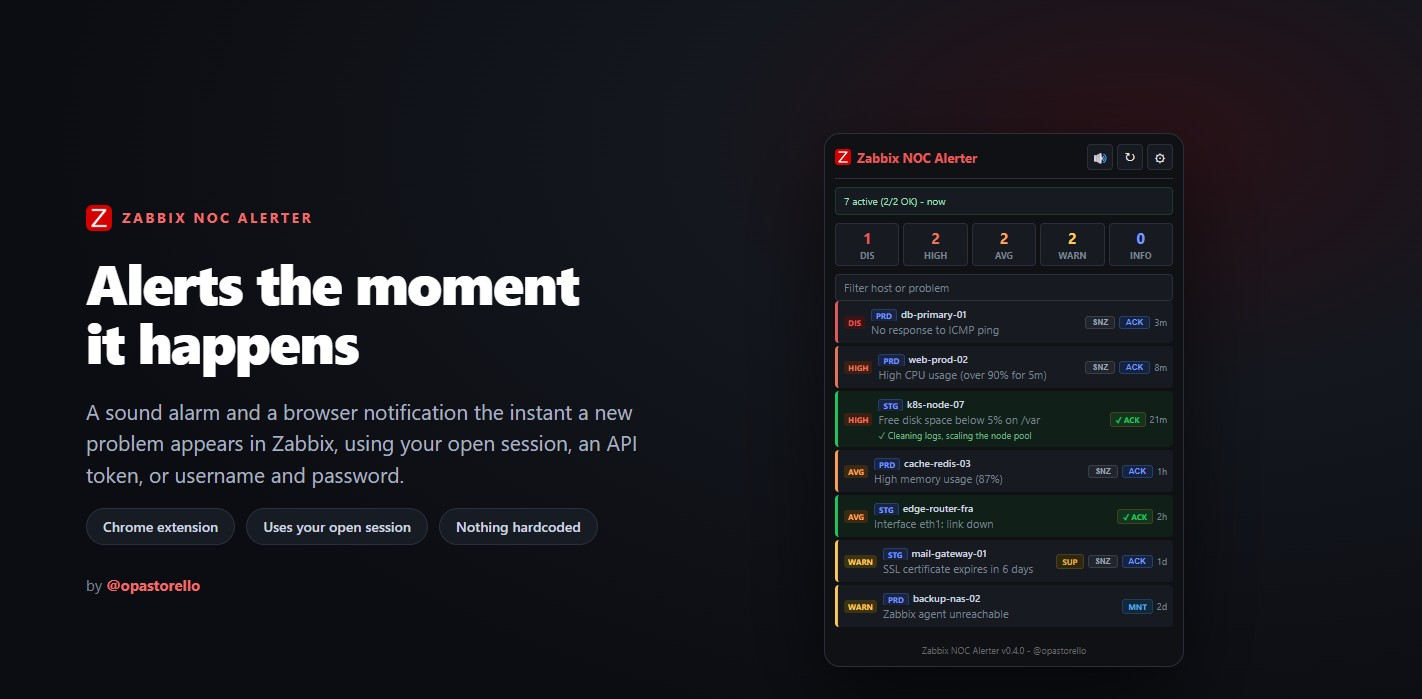
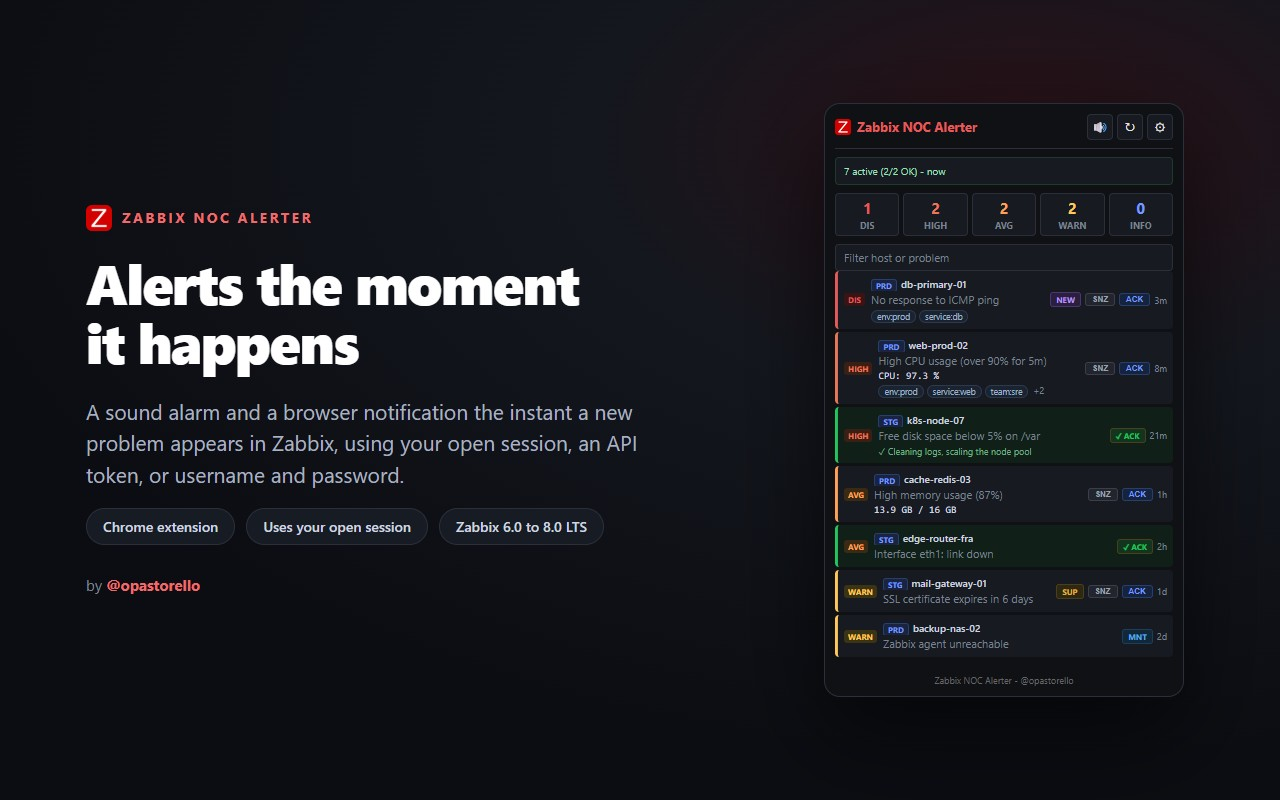
docs: screenshots da rodada v0.6 (opdata, tags, ACK/Adiar na notificacao, ponto cego, mudo com tempo)
Popup com opdata, chips de tag e o selo NOVO; notificacoes com os botoes
ACK / Adiar 15 min e o alerta de ponto cego; opcoes com filtro de tags,
ponto cego e mudo com tempo. Chip 'Zabbix 6.0 a 8.0 LTS' no slide 1.
Rodape do popup sem versao fixa (estava parado em v0.4.0).

As 12 imagens agora saem em 1280x800 exatos: o conjunto anterior tinha
1422x699, tamanho que a Chrome Web Store nao aceita.

diff --git a/screenshots/es/screenshot-1.html b/screenshots/es/screenshot-1.html
@@ -23,7 +23,7 @@
     <div class="eyebrow"><img src="../../icons/icon48.png" alt="">Zabbix NOC Alerter</div>
     <h1>Alerta en el<br>momento exacto</h1>
     <p>Una alarma sonora y notificación del navegador en el instante en que aparece un problema nuevo en Zabbix, usando la sesión abierta, token de API o usuario y contraseña.</p>
-    <div class="chips"><span class="chip">Extensión de Chrome</span><span class="chip">Usa la sesión abierta</span><span class="chip">Nada fijo en el código</span></div>
+    <div class="chips"><span class="chip">Extensión de Chrome</span><span class="chip">Usa la sesión abierta</span><span class="chip">Zabbix 6.0 a 8.0 LTS</span></div>
     <div class="by">by <b>@opastorello</b></div>
   </div>
   <div class="col-art">
@@ -42,15 +42,15 @@
       </div>
       <input class="filter-box" placeholder="Filtrar host o problema" value="">
       <div class="list">
-        <div class="row dis"><span class="badge dis">DIS</span><div class="txt"><div class="host"><span class="inst-badge">PRD</span>db-primary-01</div><div class="name">Sin respuesta al ping ICMP</div></div><div class="meta"><button class="snzbtn">SNZ</button><button class="ackbtn">ACK</button><span class="age">3m</span></div></div>
-        <div class="row high"><span class="badge high">HIGH</span><div class="txt"><div class="host"><span class="inst-badge">PRD</span>web-prod-02</div><div class="name">Uso de CPU alto (más de 90% por 5m)</div></div><div class="meta"><button class="snzbtn">SNZ</button><button class="ackbtn">ACK</button><span class="age">8m</span></div></div>
+        <div class="row dis"><span class="badge dis">DIS</span><div class="txt"><div class="host"><span class="inst-badge">PRD</span>db-primary-01</div><div class="name">Sin respuesta al ping ICMP</div><div class="tagrow"><button class="tagchip">env:prod</button><button class="tagchip">service:db</button></div></div><div class="meta"><span class="tag new">NUEVO</span><button class="snzbtn">SNZ</button><button class="ackbtn">ACK</button><span class="age">3m</span></div></div>
+        <div class="row high"><span class="badge high">HIGH</span><div class="txt"><div class="host"><span class="inst-badge">PRD</span>web-prod-02</div><div class="name">Uso de CPU alto (más de 90% por 5m)</div><div class="opdata">CPU: 97.3 %</div><div class="tagrow"><button class="tagchip">env:prod</button><button class="tagchip">service:web</button><button class="tagchip">team:sre</button><span class="tagmore">+2</span></div></div><div class="meta"><button class="snzbtn">SNZ</button><button class="ackbtn">ACK</button><span class="age">8m</span></div></div>
         <div class="row high is-ack"><span class="badge high">HIGH</span><div class="txt"><div class="host"><span class="inst-badge">HML</span>k8s-node-07</div><div class="name">Espacio libre en disco por debajo de 5% en /var</div><div class="ackinfo">&#x2713; Limpiando logs, escalando el pool de nodos</div></div><div class="meta"><span class="tag ackd">&#x2713; ACK</span><span class="age">21m</span></div></div>
-        <div class="row avg"><span class="badge avg">AVG</span><div class="txt"><div class="host"><span class="inst-badge">PRD</span>cache-redis-03</div><div class="name">Uso de memoria alto (87%)</div></div><div class="meta"><button class="snzbtn">SNZ</button><button class="ackbtn">ACK</button><span class="age">1h</span></div></div>
+        <div class="row avg"><span class="badge avg">AVG</span><div class="txt"><div class="host"><span class="inst-badge">PRD</span>cache-redis-03</div><div class="name">Uso de memoria alto (87%)</div><div class="opdata">13.9 GB / 16 GB</div></div><div class="meta"><button class="snzbtn">SNZ</button><button class="ackbtn">ACK</button><span class="age">1h</span></div></div>
         <div class="row avg is-ack"><span class="badge avg">AVG</span><div class="txt"><div class="host"><span class="inst-badge">HML</span>edge-router-fra</div><div class="name">Interfaz eth1: enlace caído</div></div><div class="meta"><span class="tag ackd">&#x2713; ACK</span><span class="age">2h</span></div></div>
         <div class="row warn"><span class="badge warn">WARN</span><div class="txt"><div class="host"><span class="inst-badge">HML</span>mail-gateway-01</div><div class="name">Certificado SSL expira en 6 días</div></div><div class="meta"><span class="tag">SUP</span><button class="snzbtn">SNZ</button><button class="ackbtn">ACK</button><span class="age">1d</span></div></div>
         <div class="row warn"><span class="badge warn">WARN</span><div class="txt"><div class="host"><span class="inst-badge">PRD</span>backup-nas-02</div><div class="name">Agente Zabbix no disponible</div></div><div class="meta"><span class="tag mnt" title="En mantenimiento">MNT</span><span class="age">2d</span></div></div>
       </div>
-      <footer><div class="credit">Zabbix NOC Alerter v0.4.0 - @opastorello</div></footer>
+      <footer><div class="credit">Zabbix NOC Alerter - @opastorello</div></footer>
     </div></div>
   </div>
 </div>

diff --git a/screenshots/pt/screenshot-1.html b/screenshots/pt/screenshot-1.html
@@ -23,7 +23,7 @@
     <div class="eyebrow"><img src="../../icons/icon48.png" alt="">Zabbix NOC Alerter</div>
     <h1>Alerta na hora<br>do problema</h1>
     <p>Alarme sonoro e notificação do navegador no instante em que um problema novo aparece no Zabbix, usando a sessão aberta, token de API ou usuário e senha.</p>
-    <div class="chips"><span class="chip">Extensão do Chrome</span><span class="chip">Usa a sessão aberta</span><span class="chip">Nada fixo no código</span></div>
+    <div class="chips"><span class="chip">Extensão do Chrome</span><span class="chip">Usa a sessão aberta</span><span class="chip">Zabbix 6.0 a 8.0 LTS</span></div>
     <div class="by">by <b>@opastorello</b></div>
   </div>
   <div class="col-art">
@@ -42,15 +42,15 @@
       </div>
       <input class="filter-box" placeholder="Filtrar host ou problema" value="">
       <div class="list">
-        <div class="row dis"><span class="badge dis">DIS</span><div class="txt"><div class="host"><span class="inst-badge">PRD</span>db-primary-01</div><div class="name">Sem resposta ao ping ICMP</div></div><div class="meta"><button class="snzbtn">SNZ</button><button class="ackbtn">ACK</button><span class="age">3m</span></div></div>
-        <div class="row high"><span class="badge high">HIGH</span><div class="txt"><div class="host"><span class="inst-badge">PRD</span>web-prod-02</div><div class="name">Uso de CPU alto (acima de 90% por 5m)</div></div><div class="meta"><button class="snzbtn">SNZ</button><button class="ackbtn">ACK</button><span class="age">8m</span></div></div>
+        <div class="row dis"><span class="badge dis">DIS</span><div class="txt"><div class="host"><span class="inst-badge">PRD</span>db-primary-01</div><div class="name">Sem resposta ao ping ICMP</div><div class="tagrow"><button class="tagchip">env:prod</button><button class="tagchip">service:db</button></div></div><div class="meta"><span class="tag new">NOVO</span><button class="snzbtn">SNZ</button><button class="ackbtn">ACK</button><span class="age">3m</span></div></div>
+        <div class="row high"><span class="badge high">HIGH</span><div class="txt"><div class="host"><span class="inst-badge">PRD</span>web-prod-02</div><div class="name">Uso de CPU alto (acima de 90% por 5m)</div><div class="opdata">CPU: 97.3 %</div><div class="tagrow"><button class="tagchip">env:prod</button><button class="tagchip">service:web</button><button class="tagchip">team:sre</button><span class="tagmore">+2</span></div></div><div class="meta"><button class="snzbtn">SNZ</button><button class="ackbtn">ACK</button><span class="age">8m</span></div></div>
         <div class="row high is-ack"><span class="badge high">HIGH</span><div class="txt"><div class="host"><span class="inst-badge">HML</span>k8s-node-07</div><div class="name">Espaço livre em disco abaixo de 5% em /var</div><div class="ackinfo">&#x2713; Limpando logs, escalando o pool de nós</div></div><div class="meta"><span class="tag ackd">&#x2713; ACK</span><span class="age">21m</span></div></div>
-        <div class="row avg"><span class="badge avg">AVG</span><div class="txt"><div class="host"><span class="inst-badge">PRD</span>cache-redis-03</div><div class="name">Uso de memória alto (87%)</div></div><div class="meta"><button class="snzbtn">SNZ</button><button class="ackbtn">ACK</button><span class="age">1h</span></div></div>
+        <div class="row avg"><span class="badge avg">AVG</span><div class="txt"><div class="host"><span class="inst-badge">PRD</span>cache-redis-03</div><div class="name">Uso de memória alto (87%)</div><div class="opdata">13.9 GB / 16 GB</div></div><div class="meta"><button class="snzbtn">SNZ</button><button class="ackbtn">ACK</button><span class="age">1h</span></div></div>
         <div class="row avg is-ack"><span class="badge avg">AVG</span><div class="txt"><div class="host"><span class="inst-badge">HML</span>edge-router-fra</div><div class="name">Interface eth1: link caiu</div></div><div class="meta"><span class="tag ackd">&#x2713; ACK</span><span class="age">2h</span></div></div>
         <div class="row warn"><span class="badge warn">WARN</span><div class="txt"><div class="host"><span class="inst-badge">HML</span>mail-gateway-01</div><div class="name">Certificado SSL expira em 6 dias</div></div><div class="meta"><span class="tag">SUP</span><button class="snzbtn">SNZ</button><button class="ackbtn">ACK</button><span class="age">1d</span></div></div>
         <div class="row warn"><span class="badge warn">WARN</span><div class="txt"><div class="host"><span class="inst-badge">PRD</span>backup-nas-02</div><div class="name">Agente Zabbix indisponível</div></div><div class="meta"><span class="tag mnt" title="Em manutenção">MNT</span><span class="age">2d</span></div></div>
       </div>
-      <footer><div class="credit">Zabbix NOC Alerter v0.4.0 - @opastorello</div></footer>
+      <footer><div class="credit">Zabbix NOC Alerter - @opastorello</div></footer>
     </div></div>
   </div>
 </div>

diff --git a/screenshots/en/screenshot-1.html b/screenshots/en/screenshot-1.html
@@ -23,7 +23,7 @@
     <div class="eyebrow"><img src="../../icons/icon48.png" alt="">Zabbix NOC Alerter</div>
     <h1>Alerts the moment<br>it happens</h1>
     <p>A sound alarm and a browser notification the instant a new problem appears in Zabbix, using your open session, an API token, or username and password.</p>
-    <div class="chips"><span class="chip">Chrome extension</span><span class="chip">Uses your open session</span><span class="chip">Nothing hardcoded</span></div>
+    <div class="chips"><span class="chip">Chrome extension</span><span class="chip">Uses your open session</span><span class="chip">Zabbix 6.0 to 8.0 LTS</span></div>
     <div class="by">by <b>@opastorello</b></div>
   </div>
   <div class="col-art">
@@ -42,15 +42,15 @@
       </div>
       <input class="filter-box" placeholder="Filter host or problem" value="">
       <div class="list">
-        <div class="row dis"><span class="badge dis">DIS</span><div class="txt"><div class="host"><span class="inst-badge">PRD</span>db-primary-01</div><div class="name">No response to ICMP ping</div></div><div class="meta"><button class="snzbtn">SNZ</button><button class="ackbtn">ACK</button><span class="age">3m</span></div></div>
-        <div class="row high"><span class="badge high">HIGH</span><div class="txt"><div class="host"><span class="inst-badge">PRD</span>web-prod-02</div><div class="name">High CPU usage (over 90% for 5m)</div></div><div class="meta"><button class="snzbtn">SNZ</button><button class="ackbtn">ACK</button><span class="age">8m</span></div></div>
+        <div class="row dis"><span class="badge dis">DIS</span><div class="txt"><div class="host"><span class="inst-badge">PRD</span>db-primary-01</div><div class="name">No response to ICMP ping</div><div class="tagrow"><button class="tagchip">env:prod</button><button class="tagchip">service:db</button></div></div><div class="meta"><span class="tag new">NEW</span><button class="snzbtn">SNZ</button><button class="ackbtn">ACK</button><span class="age">3m</span></div></div>
+        <div class="row high"><span class="badge high">HIGH</span><div class="txt"><div class="host"><span class="inst-badge">PRD</span>web-prod-02</div><div class="name">High CPU usage (over 90% for 5m)</div><div class="opdata">CPU: 97.3 %</div><div class="tagrow"><button class="tagchip">env:prod</button><button class="tagchip">service:web</button><button class="tagchip">team:sre</button><span class="tagmore">+2</span></div></div><div class="meta"><button class="snzbtn">SNZ</button><button class="ackbtn">ACK</button><span class="age">8m</span></div></div>
         <div class="row high is-ack"><span class="badge high">HIGH</span><div class="txt"><div class="host"><span class="inst-badge">STG</span>k8s-node-07</div><div class="name">Free disk space below 5% on /var</div><div class="ackinfo">&#x2713; Cleaning logs, scaling the node pool</div></div><div class="meta"><span class="tag ackd">&#x2713; ACK</span><span class="age">21m</span></div></div>
-        <div class="row avg"><span class="badge avg">AVG</span><div class="txt"><div class="host"><span class="inst-badge">PRD</span>cache-redis-03</div><div class="name">High memory usage (87%)</div></div><div class="meta"><button class="snzbtn">SNZ</button><button class="ackbtn">ACK</button><span class="age">1h</span></div></div>
+        <div class="row avg"><span class="badge avg">AVG</span><div class="txt"><div class="host"><span class="inst-badge">PRD</span>cache-redis-03</div><div class="name">High memory usage (87%)</div><div class="opdata">13.9 GB / 16 GB</div></div><div class="meta"><button class="snzbtn">SNZ</button><button class="ackbtn">ACK</button><span class="age">1h</span></div></div>
         <div class="row avg is-ack"><span class="badge avg">AVG</span><div class="txt"><div class="host"><span class="inst-badge">STG</span>edge-router-fra</div><div class="name">Interface eth1: link down</div></div><div class="meta"><span class="tag ackd">&#x2713; ACK</span><span class="age">2h</span></div></div>
         <div class="row warn"><span class="badge warn">WARN</span><div class="txt"><div class="host"><span class="inst-badge">STG</span>mail-gateway-01</div><div class="name">SSL certificate expires in 6 days</div></div><div class="meta"><span class="tag">SUP</span><button class="snzbtn">SNZ</button><button class="ackbtn">ACK</button><span class="age">1d</span></div></div>
         <div class="row warn"><span class="badge warn">WARN</span><div class="txt"><div class="host"><span class="inst-badge">PRD</span>backup-nas-02</div><div class="name">Zabbix agent unreachable</div></div><div class="meta"><span class="tag mnt" title="In maintenance">MNT</span><span class="age">2d</span></div></div>
       </div>
-      <footer><div class="credit">Zabbix NOC Alerter v0.4.0 - @opastorello</div></footer>
+      <footer><div class="credit">Zabbix NOC Alerter - @opastorello</div></footer>
     </div></div>
   </div>
 </div>

diff --git a/screenshots/es/screenshot-3.html b/screenshots/es/screenshot-3.html
@@ -31,7 +31,7 @@
     <div class="card">
       <h3>Instancias de Zabbix</h3>
       <div class="b">
-        <div style="display:flex;align-items:center;gap:8px;background:#0f1115;border:1px solid #2a2f3a;border-radius:8px;padding:9px 11px;margin-bottom:8px;"><span style="font-size:10px;font-weight:700;color:#ef6b6b;background:#3a1414;border-radius:9px;padding:2px 7px;">#1</span><b style="font-size:13px;color:#e6e6e6;">PRD</b><span style="flex:1;font-size:11px;color:#7a8290;overflow:hidden;text-overflow:ellipsis;white-space:nowrap;">zabbix.prd.example.com</span><span style="font-size:9px;font-weight:700;color:#9cc4ff;background:#1e3a5f;border-radius:9px;padding:2px 7px;">sesión</span><span style="font-size:10px;font-weight:700;color:#22c55e;">Activa</span></div>
+        <div style="display:flex;align-items:center;gap:8px;background:#0f1115;border:1px solid #2a2f3a;border-radius:8px;padding:9px 11px;margin-bottom:8px;"><span style="font-size:10px;font-weight:700;color:#ef6b6b;background:#3a1414;border-radius:9px;padding:2px 7px;">#1</span><b style="font-size:13px;color:#e6e6e6;">PRD</b><span style="flex:1;font-size:11px;color:#7a8290;overflow:hidden;text-overflow:ellipsis;white-space:nowrap;">zabbix.prd.example.com</span><span style="font-size:9px;font-weight:700;color:#9cc4ff;background:#1e3a5f;border-radius:9px;padding:2px 7px;">sesión</span><span style="font-size:9px;font-weight:600;color:#9fb3c8;background:#1b2230;border:1px solid #2c3a50;border-radius:9px;padding:1px 7px;">env=prod</span><span style="font-size:10px;font-weight:700;color:#22c55e;">Activa</span></div>
         <div style="display:flex;align-items:center;gap:8px;background:#0f1115;border:1px solid #2a2f3a;border-radius:8px;padding:9px 11px;"><span style="font-size:10px;font-weight:700;color:#ef6b6b;background:#3a1414;border-radius:9px;padding:2px 7px;">#2</span><b style="font-size:13px;color:#e6e6e6;">HML</b><span style="flex:1;font-size:11px;color:#7a8290;overflow:hidden;text-overflow:ellipsis;white-space:nowrap;">zabbix.hml.example.com</span><span style="font-size:9px;font-weight:700;color:#9cc4ff;background:#1e3a5f;border-radius:9px;padding:2px 7px;">token</span><span style="font-size:10px;font-weight:700;color:#22c55e;">Activa</span></div>
       </div>
       <h3>Monitoreo</h3>
@@ -46,6 +46,7 @@
         <div class="tr"><span class="tg on"></span>Alertar solo en horario laboral</div>
         <div class="tr"><span class="tg on"></span>Modo reunión (Google Meet)</div>
         <div class="tr"><span class="tg on"></span>Ignorar problemas en mantenimiento</div>
+        <div class="tr"><span class="tg on"></span>Alerta de punto ciego (2 min)</div>
         <div class="f" style="margin-top:8px;"><label>Sonido - Desastre</label>
           <div class="sound"><span class="inp">klaxon</span><span class="mini">&#x25b6; Probar</span></div></div>
       </div>
@@ -57,10 +58,12 @@
     <p>Déjalo como trabaja tu equipo, todo desde la pantalla de opciones.</p>
     <div class="feat"><span class="dot"></span>Multi-instancia: hasta 8 Zabbix a la vez</div>
     <div class="feat"><span class="dot"></span>Tres modos de autenticación: sesión, token o usuario/contraseña</div>
-    <div class="feat"><span class="dot"></span>Filtro por grupo de hosts, corta ruido en el servidor</div>
+    <div class="feat"><span class="dot"></span>Filtro por grupo de hosts y etiquetas, corta ruido en el servidor</div>
     <div class="feat"><span class="dot"></span>Filtro en vivo, ordenar y agrupar por host o instancia</div>
     <div class="feat"><span class="dot"></span>Consciente de mantenimiento: etiqueta MNT, en silencio</div>
     <div class="feat"><span class="dot"></span>Re-alarma con sonido y notificación</div>
+    <div class="feat"><span class="dot"></span>Silencio temporal: de 15 min hasta el fin del turno</div>
+    <div class="feat"><span class="dot"></span>Alerta de punto ciego cuando Zabbix desaparece</div>
   </div>
 </div>
 </body></html>

diff --git a/screenshots/pt/screenshot-3.html b/screenshots/pt/screenshot-3.html
@@ -31,7 +31,7 @@
     <div class="card">
       <h3>Instâncias do Zabbix</h3>
       <div class="b">
-        <div style="display:flex;align-items:center;gap:8px;background:#0f1115;border:1px solid #2a2f3a;border-radius:8px;padding:9px 11px;margin-bottom:8px;"><span style="font-size:10px;font-weight:700;color:#ef6b6b;background:#3a1414;border-radius:9px;padding:2px 7px;">#1</span><b style="font-size:13px;color:#e6e6e6;">PRD</b><span style="flex:1;font-size:11px;color:#7a8290;overflow:hidden;text-overflow:ellipsis;white-space:nowrap;">zabbix.prd.example.com</span><span style="font-size:9px;font-weight:700;color:#9cc4ff;background:#1e3a5f;border-radius:9px;padding:2px 7px;">sessão</span><span style="font-size:10px;font-weight:700;color:#22c55e;">Ativa</span></div>
+        <div style="display:flex;align-items:center;gap:8px;background:#0f1115;border:1px solid #2a2f3a;border-radius:8px;padding:9px 11px;margin-bottom:8px;"><span style="font-size:10px;font-weight:700;color:#ef6b6b;background:#3a1414;border-radius:9px;padding:2px 7px;">#1</span><b style="font-size:13px;color:#e6e6e6;">PRD</b><span style="flex:1;font-size:11px;color:#7a8290;overflow:hidden;text-overflow:ellipsis;white-space:nowrap;">zabbix.prd.example.com</span><span style="font-size:9px;font-weight:700;color:#9cc4ff;background:#1e3a5f;border-radius:9px;padding:2px 7px;">sessão</span><span style="font-size:9px;font-weight:600;color:#9fb3c8;background:#1b2230;border:1px solid #2c3a50;border-radius:9px;padding:1px 7px;">env=prod</span><span style="font-size:10px;font-weight:700;color:#22c55e;">Ativa</span></div>
         <div style="display:flex;align-items:center;gap:8px;background:#0f1115;border:1px solid #2a2f3a;border-radius:8px;padding:9px 11px;"><span style="font-size:10px;font-weight:700;color:#ef6b6b;background:#3a1414;border-radius:9px;padding:2px 7px;">#2</span><b style="font-size:13px;color:#e6e6e6;">HML</b><span style="flex:1;font-size:11px;color:#7a8290;overflow:hidden;text-overflow:ellipsis;white-space:nowrap;">zabbix.hml.example.com</span><span style="font-size:9px;font-weight:700;color:#9cc4ff;background:#1e3a5f;border-radius:9px;padding:2px 7px;">token</span><span style="font-size:10px;font-weight:700;color:#22c55e;">Ativa</span></div>
       </div>
       <h3>Monitoramento</h3>
@@ -46,6 +46,7 @@
         <div class="tr"><span class="tg on"></span>Alertar só no horário de trabalho</div>
         <div class="tr"><span class="tg on"></span>Modo reunião (Google Meet)</div>
         <div class="tr"><span class="tg on"></span>Ignorar problemas em manutenção</div>
+        <div class="tr"><span class="tg on"></span>Alerta de ponto cego (2 min)</div>
         <div class="f" style="margin-top:8px;"><label>Som - Desastre</label>
           <div class="sound"><span class="inp">klaxon</span><span class="mini">&#x25b6; Testar</span></div></div>
       </div>
@@ -57,10 +58,12 @@
     <p>Deixe do jeito que a sua equipe trabalha, tudo pela tela de opções.</p>
     <div class="feat"><span class="dot"></span>Multi-instância: até 8 Zabbix de uma vez</div>
     <div class="feat"><span class="dot"></span>Três modos de autenticação: sessão, token ou usuário/senha</div>
-    <div class="feat"><span class="dot"></span>Filtro por host group, corta ruído no servidor</div>
+    <div class="feat"><span class="dot"></span>Filtro por host group e tags, corta ruído no servidor</div>
     <div class="feat"><span class="dot"></span>Filtro ao vivo, ordenar e agrupar por host ou instância</div>
     <div class="feat"><span class="dot"></span>Ciente de manutenção: tag MNT, silencioso</div>
     <div class="feat"><span class="dot"></span>Re-alarme com som e notificação</div>
+    <div class="feat"><span class="dot"></span>Mudo com tempo: de 15 min até o fim do turno</div>
+    <div class="feat"><span class="dot"></span>Alerta de ponto cego quando o Zabbix some</div>
   </div>
 </div>
 </body></html>

diff --git a/screenshots/en/screenshot-3.html b/screenshots/en/screenshot-3.html
@@ -31,7 +31,7 @@
     <div class="card">
       <h3>Zabbix instances</h3>
       <div class="b">
-        <div style="display:flex;align-items:center;gap:8px;background:#0f1115;border:1px solid #2a2f3a;border-radius:8px;padding:9px 11px;margin-bottom:8px;"><span style="font-size:10px;font-weight:700;color:#ef6b6b;background:#3a1414;border-radius:9px;padding:2px 7px;">#1</span><b style="font-size:13px;color:#e6e6e6;">PRD</b><span style="flex:1;font-size:11px;color:#7a8290;overflow:hidden;text-overflow:ellipsis;white-space:nowrap;">zabbix.prd.example.com</span><span style="font-size:9px;font-weight:700;color:#9cc4ff;background:#1e3a5f;border-radius:9px;padding:2px 7px;">session</span><span style="font-size:10px;font-weight:700;color:#22c55e;">Active</span></div>
+        <div style="display:flex;align-items:center;gap:8px;background:#0f1115;border:1px solid #2a2f3a;border-radius:8px;padding:9px 11px;margin-bottom:8px;"><span style="font-size:10px;font-weight:700;color:#ef6b6b;background:#3a1414;border-radius:9px;padding:2px 7px;">#1</span><b style="font-size:13px;color:#e6e6e6;">PRD</b><span style="flex:1;font-size:11px;color:#7a8290;overflow:hidden;text-overflow:ellipsis;white-space:nowrap;">zabbix.prd.example.com</span><span style="font-size:9px;font-weight:700;color:#9cc4ff;background:#1e3a5f;border-radius:9px;padding:2px 7px;">session</span><span style="font-size:9px;font-weight:600;color:#9fb3c8;background:#1b2230;border:1px solid #2c3a50;border-radius:9px;padding:1px 7px;">env=prod</span><span style="font-size:10px;font-weight:700;color:#22c55e;">Active</span></div>
         <div style="display:flex;align-items:center;gap:8px;background:#0f1115;border:1px solid #2a2f3a;border-radius:8px;padding:9px 11px;"><span style="font-size:10px;font-weight:700;color:#ef6b6b;background:#3a1414;border-radius:9px;padding:2px 7px;">#2</span><b style="font-size:13px;color:#e6e6e6;">STG</b><span style="flex:1;font-size:11px;color:#7a8290;overflow:hidden;text-overflow:ellipsis;white-space:nowrap;">zabbix.stg.example.com</span><span style="font-size:9px;font-weight:700;color:#9cc4ff;background:#1e3a5f;border-radius:9px;padding:2px 7px;">token</span><span style="font-size:10px;font-weight:700;color:#22c55e;">Active</span></div>
       </div>
       <h3>Monitoring</h3>
@@ -46,6 +46,7 @@
         <div class="tr"><span class="tg on"></span>Alert only during working hours</div>
         <div class="tr"><span class="tg on"></span>Meeting mode (Google Meet)</div>
         <div class="tr"><span class="tg on"></span>Ignore problems in maintenance</div>
+        <div class="tr"><span class="tg on"></span>Blind-spot alert (2 min)</div>
         <div class="f" style="margin-top:8px;"><label>Sound - Disaster</label>
           <div class="sound"><span class="inp">klaxon</span><span class="mini">&#x25b6; Test</span></div></div>
       </div>
@@ -57,10 +58,12 @@
     <p>Set it up the way your team works, all from the options screen.</p>
     <div class="feat"><span class="dot"></span>Multi-instance: up to 8 Zabbix at once</div>
     <div class="feat"><span class="dot"></span>Three auth modes: session, token or user/password</div>
-    <div class="feat"><span class="dot"></span>Host group filter, cuts noise at the server</div>
+    <div class="feat"><span class="dot"></span>Host group and tag filters, cut noise at the server</div>
     <div class="feat"><span class="dot"></span>Live filter, sort and group by host or instance</div>
     <div class="feat"><span class="dot"></span>Maintenance-aware: MNT tag, silent</div>
     <div class="feat"><span class="dot"></span>Re-alarm with sound and notification</div>
+    <div class="feat"><span class="dot"></span>Timed mute: from 15 min to end of shift</div>
+    <div class="feat"><span class="dot"></span>Blind-spot alert when Zabbix goes dark</div>
   </div>
 </div>
 </body></html>

diff --git a/screenshots/es/screenshot-2.html b/screenshots/es/screenshot-2.html
@@ -18,23 +18,33 @@
   .toast .body{font-size:15px;color:#c8ccd4;margin-bottom:10px;}
   .toast .app{font-size:12px;color:#7a8090;display:flex;align-items:center;gap:7px;}
   .toast .app img{width:16px;height:16px;border-radius:3px;}
+  .toast .btns{display:flex;gap:8px;margin-top:12px;}
+  .toast .btn{flex:1;text-align:center;font-size:13px;font-weight:600;color:#e6e6e6;background:#2a2b31;border:1px solid #3a3b44;border-radius:7px;padding:7px 0;}
+  .toast.blind{border-color:#5a4a1e;}
+  .toast.blind .title{color:#f5c26b;}
 </style></head>
 <body>
 <div class="slide">
   <div class="col-text">
     <div class="eyebrow">Zabbix NOC Alerter</div>
     <h1>Notificaciones<br>que aparecen</h1>
-    <p>Una notificación del navegador para cada problema nuevo, con el nombre del host, incluso con la pestaña en segundo plano. Haz clic y abre el evento exacto en Zabbix.</p>
+    <p>Una notificación para cada problema nuevo, con el host y el valor del trigger, incluso con la pestaña en segundo plano. Haz ACK o pospón ahí mismo, o haz clic y abre el evento exacto en Zabbix.</p>
   </div>
   <div class="col-art">
     <div class="toast"><img class="ic" src="../../icons/icon128.png" alt="">
       <div class="tt"><div class="title"><span class="tag dis">DESASTRE</span>db-primary-01</div>
       <div class="body">Sin respuesta al ping ICMP</div>
-      <div class="app"><img src="../../icons/icon16.png" alt="">Zabbix NOC Alerter - clic para abrir</div></div></div>
+      <div class="app"><img src="../../icons/icon16.png" alt="">Zabbix NOC Alerter - clic para abrir</div>
+      <div class="btns"><span class="btn">ACK</span><span class="btn">Posponer 15 min</span></div></div></div>
     <div class="toast"><img class="ic" src="../../icons/icon128.png" alt="">
       <div class="tt"><div class="title"><span class="tag high">ALTA</span>web-prod-02</div>
-      <div class="body">Uso de CPU alto (más de 90% por 5m)</div>
-      <div class="app"><img src="../../icons/icon16.png" alt="">Zabbix NOC Alerter - clic para abrir</div></div></div>
+      <div class="body">Uso de CPU alto (más de 90% por 5m) - CPU:&nbsp;97.3&nbsp;%</div>
+      <div class="app"><img src="../../icons/icon16.png" alt="">Zabbix NOC Alerter - clic para abrir</div>
+      <div class="btns"><span class="btn">ACK</span><span class="btn">Posponer 15 min</span></div></div></div>
+    <div class="toast blind"><img class="ic" src="../../icons/icon128.png" alt="">
+      <div class="tt"><div class="title">Punto ciego: sin visión de HML</div>
+      <div class="body">Sin sesión de Zabbix - inicia sesión (o usa un token en opciones).</div>
+      <div class="app"><img src="../../icons/icon16.png" alt="">Zabbix NOC Alerter - hace 2 min sin poder leer los problemas - clic para abrir</div></div></div>
   </div>
 </div>
 </body></html>

diff --git a/screenshots/pt/screenshot-2.html b/screenshots/pt/screenshot-2.html
@@ -18,23 +18,33 @@
   .toast .body{font-size:15px;color:#c8ccd4;margin-bottom:10px;}
   .toast .app{font-size:12px;color:#7a8090;display:flex;align-items:center;gap:7px;}
   .toast .app img{width:16px;height:16px;border-radius:3px;}
+  .toast .btns{display:flex;gap:8px;margin-top:12px;}
+  .toast .btn{flex:1;text-align:center;font-size:13px;font-weight:600;color:#e6e6e6;background:#2a2b31;border:1px solid #3a3b44;border-radius:7px;padding:7px 0;}
+  .toast.blind{border-color:#5a4a1e;}
+  .toast.blind .title{color:#f5c26b;}
 </style></head>
 <body>
 <div class="slide">
   <div class="col-text">
     <div class="eyebrow">Zabbix NOC Alerter</div>
     <h1>Notificações<br>que aparecem</h1>
-    <p>Uma notificação do navegador para cada problema novo, com o nome do host, mesmo com a aba em segundo plano. Clique e abra o evento exato no Zabbix.</p>
+    <p>Uma notificação para cada problema novo, com o host e o valor do trigger, mesmo com a aba em segundo plano. Dê ACK ou adie ali mesmo, ou clique e abra o evento exato no Zabbix.</p>
   </div>
   <div class="col-art">
     <div class="toast"><img class="ic" src="../../icons/icon128.png" alt="">
       <div class="tt"><div class="title"><span class="tag dis">DESASTRE</span>db-primary-01</div>
       <div class="body">Sem resposta ao ping ICMP</div>
-      <div class="app"><img src="../../icons/icon16.png" alt="">Zabbix NOC Alerter - clique para abrir</div></div></div>
+      <div class="app"><img src="../../icons/icon16.png" alt="">Zabbix NOC Alerter - clique para abrir</div>
+      <div class="btns"><span class="btn">ACK</span><span class="btn">Adiar 15 min</span></div></div></div>
     <div class="toast"><img class="ic" src="../../icons/icon128.png" alt="">
       <div class="tt"><div class="title"><span class="tag high">ALTA</span>web-prod-02</div>
-      <div class="body">Uso de CPU alto (acima de 90% por 5m)</div>
-      <div class="app"><img src="../../icons/icon16.png" alt="">Zabbix NOC Alerter - clique para abrir</div></div></div>
+      <div class="body">Uso de CPU alto (acima de 90% por 5m) - CPU:&nbsp;97.3&nbsp;%</div>
+      <div class="app"><img src="../../icons/icon16.png" alt="">Zabbix NOC Alerter - clique para abrir</div>
+      <div class="btns"><span class="btn">ACK</span><span class="btn">Adiar 15 min</span></div></div></div>
+    <div class="toast blind"><img class="ic" src="../../icons/icon128.png" alt="">
+      <div class="tt"><div class="title">Ponto cego: sem visão do HML</div>
+      <div class="body">Sem sessão do Zabbix - faça login (ou use token nas opções).</div>
+      <div class="app"><img src="../../icons/icon16.png" alt="">Zabbix NOC Alerter - há 2 min sem conseguir ler os problemas - clique para abrir</div></div></div>
   </div>
 </div>
 </body></html>

diff --git a/screenshots/en/screenshot-2.html b/screenshots/en/screenshot-2.html
@@ -18,23 +18,33 @@
   .toast .body{font-size:15px;color:#c8ccd4;margin-bottom:10px;}
   .toast .app{font-size:12px;color:#7a8090;display:flex;align-items:center;gap:7px;}
   .toast .app img{width:16px;height:16px;border-radius:3px;}
+  .toast .btns{display:flex;gap:8px;margin-top:12px;}
+  .toast .btn{flex:1;text-align:center;font-size:13px;font-weight:600;color:#e6e6e6;background:#2a2b31;border:1px solid #3a3b44;border-radius:7px;padding:7px 0;}
+  .toast.blind{border-color:#5a4a1e;}
+  .toast.blind .title{color:#f5c26b;}
 </style></head>
 <body>
 <div class="slide">
   <div class="col-text">
     <div class="eyebrow">Zabbix NOC Alerter</div>
     <h1>Notifications<br>that show up</h1>
-    <p>A browser notification for every new problem, with the host name, even when the tab is in the background. Click to open the exact event in Zabbix.</p>
+    <p>A notification for every new problem, with the host and the trigger value, even with the tab in the background. Acknowledge or snooze it right there, or click to open the exact event in Zabbix.</p>
   </div>
   <div class="col-art">
     <div class="toast"><img class="ic" src="../../icons/icon128.png" alt="">
       <div class="tt"><div class="title"><span class="tag dis">DISASTER</span>db-primary-01</div>
       <div class="body">No response to ICMP ping</div>
-      <div class="app"><img src="../../icons/icon16.png" alt="">Zabbix NOC Alerter - click to open</div></div></div>
+      <div class="app"><img src="../../icons/icon16.png" alt="">Zabbix NOC Alerter - click to open</div>
+      <div class="btns"><span class="btn">ACK</span><span class="btn">Snooze 15 min</span></div></div></div>
     <div class="toast"><img class="ic" src="../../icons/icon128.png" alt="">
       <div class="tt"><div class="title"><span class="tag high">HIGH</span>web-prod-02</div>
-      <div class="body">High CPU usage (over 90% for 5m)</div>
-      <div class="app"><img src="../../icons/icon16.png" alt="">Zabbix NOC Alerter - click to open</div></div></div>
+      <div class="body">High CPU usage (over 90% for 5m) - CPU:&nbsp;97.3&nbsp;%</div>
+      <div class="app"><img src="../../icons/icon16.png" alt="">Zabbix NOC Alerter - click to open</div>
+      <div class="btns"><span class="btn">ACK</span><span class="btn">Snooze 15 min</span></div></div></div>
+    <div class="toast blind"><img class="ic" src="../../icons/icon128.png" alt="">
+      <div class="tt"><div class="title">Blind spot: lost sight of STG</div>
+      <div class="body">No Zabbix session - log in (or use a token in options).</div>
+      <div class="app"><img src="../../icons/icon16.png" alt="">Zabbix NOC Alerter - unable to read problems for 2 min - click to open</div></div></div>
   </div>
 </div>
 </body></html>
